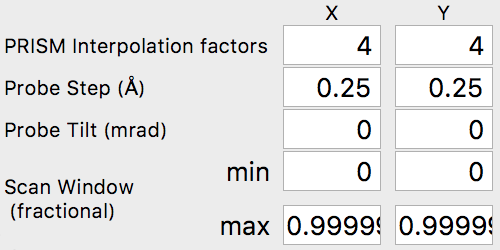
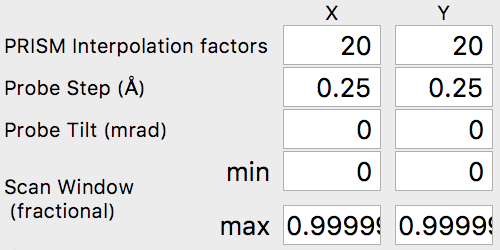
Sections 5 and 6 added to GUI tutorial.

Changed region(s): [[0.9, 0.14, 0.99, 0.224], [0.66, 0.14, 0.75, 0.224]]

diff --git a/tutorial.md b/tutorial.md
@@ -225,12 +225,34 @@ For our simulation, we are going to start with interpolation factors of 20 and 2
 
 ### 5 - Test PRISM vs Multislice accuracy.
 
-[In Progress]
+The `PRISM` algorithm is very fast - for a given interpolation factor *f*, it can provide a speedup of *f^2* to *f^4* relative to the multislice calculation time, depending on the simulation cell dimensions and the calculation parameters. However, it must sacrifice some accuracy to do so, with the error increasing as the interpolation factor *f* is increased. Ideally we want the error relative to multislice to be <1%, or even <0.1%, but this may not always be possible due to limited calculation times. Thus when choosing a value for *f*, we must balance accuracy against the time we are willing to alot for a given calculation.
+
+Now, we will compare the `PRISM` algorithm with the `multislice` algorithm, using a tool build into *Prismatic*.  Click on the *Probe Analyzer* button at the top of the image panel.  Immediately you should see an array of probe images below the atomic potential. Ignore the uninitialized images for now. Generally, we want to test the accuracy of `PRISM` vs `multislice` using a region of the sample where the probe will broaden the most. Therefore change the both X and Y settings next to the **calculate** button on the image panel to 50 Angstroms. Then, click the **calculate** button.  Note that even with a GPU, this calculation should be relatively fast (the settings on the bottom right panel control the number of CPU and GPU threads). You should now see:
+
+![Prismatic screenshot 05](img/PrismaticScreen05.png){:width="640px"}
+
+Note that the probe location is shown as a large white cross at the center of the image (50, 50 Angstroms). The bottom 6 panels compare `PRISM` simulations to `multislice` simulations. Huge artifacts are immediately visible in the `PRISM` Fourier space probe image - this is due the probe being far larger than the cropping region of 5 x 5 Angstroms for an interpolation factor of 20. Looking at the multislice probe image in realspace (top center panel) we see the probe is at least twice as large as this cropping region. Therefore we can next try halving the interpolation factor. Set both the x and y direction intepolation factors to 10, and then click the **calculate** button on the image panel.  This calculation will take approximately 4 times longer, since the `PRISM` compact S-matrix now contains 4 times as many plane waves. Once the calculation is complete, you should see:
+
+![Prismatic screenshot 06](img/PrismaticScreen06.png){:width="650px"}
+
+It is immediately obvious that the `PRISM` probe is significantly more accurate with an interpolation factor of 10 as opposed to 20.  Small ringing artifacts are present in the Fourier space probe image due to the cropping window clipping the tails of the probe in realspace, but these artifacts are fairly minor.  The various intensity features are very similar in both methods, which you can see in more detail by clicking the **Log Scale** box to scale the intensities.  The edge of the probe's aperture function shows some differences, but these are primarily due to the different sampling scales. Overall, this interpolation factor of 10 would be sufficiently accurate for an exploratory simulation, but probably not for a publication. Thus, we will halve the interpolation again to improve the accuracy further. Set both the x and y direction intepolation factors to 5, and then click the **calculate** button on the image panel. This calculation will require a few minutes on a fast modern computer, perhaps ten on an older laptop.  If you have a GPU (or more than one) it will be very fast. Once this calculation is complete, you will see:
+
+![Prismatic screenshot 07](img/PrismaticScreen07.png){:width="658px"}
+
+These settings should produce a high accuracy `PRISM` simulation. The correlation function plotted gives a good idea of the accuracy of the simulation, which is over 99%. Checking the **Log Scale** box shows that `PRISM` has captured all of the fine details of the STEM probe in Fourier space. 
 
 
 
-### 6 - Run PRISM simulation, save output as .mrc.
-[In Progress]
+### 6 - Run PRISM simulation, save 3D output as .mrc.
+
+We are now almost ready to run the full `PRISM` simulation in *Prismatic*. First, make sure the desited number of CPU threads and GPUs / GPU streams are selected. Using all of your computer's power will speed up the simulation, but could make watching videos on Youtube while the simulation runs difficult. Additionally, the CPU threads will run far more slowly than any GPU streams (if available).  Therefore a GPU-only simulation is a common configuration. 
+
+The other consideration is which outputs to save. By far the most common use-case is to output the 3D scattering signal, created by integrating radially in Fourier space. This allows us to create virtual detector images with any annular ranges. For example, in this simulation with a 20 millirad STEM probe, we could sum the output detectors from 1 to 20 millirads to form a bright field image. The output file name must also be specified - **make certain you have specified a valid output path**.  For example, on my OSX machine I am using the following output path and file name:
+
+/Users/cophus/STEMsims/DecaSimulation.mrc 
+
+We will also leave the thermal effects box checked, even though we are performing a single frozen phonon simulation. For a more accurate output, we can in the future run 8 or even 16 frozen phonon configurations. The final few settings control whether the simulation is a `PRISM` or `multislice` simulation, and whether to use streaming mode or not. The streaming mode will use less GPU RAM, but will take longer to compute. For this simulation, I am using 12 CPU threads and 0 GPUs, since my OSX workstation does not not have a CUDA capable GPU. Once all settings are correct, click the **Full Calculation** button.  Even without a GPU, this simulation will complete in under an hour on my machine.
+
 
 ### 7 - Generate final image outputs.
 [In Progress]
